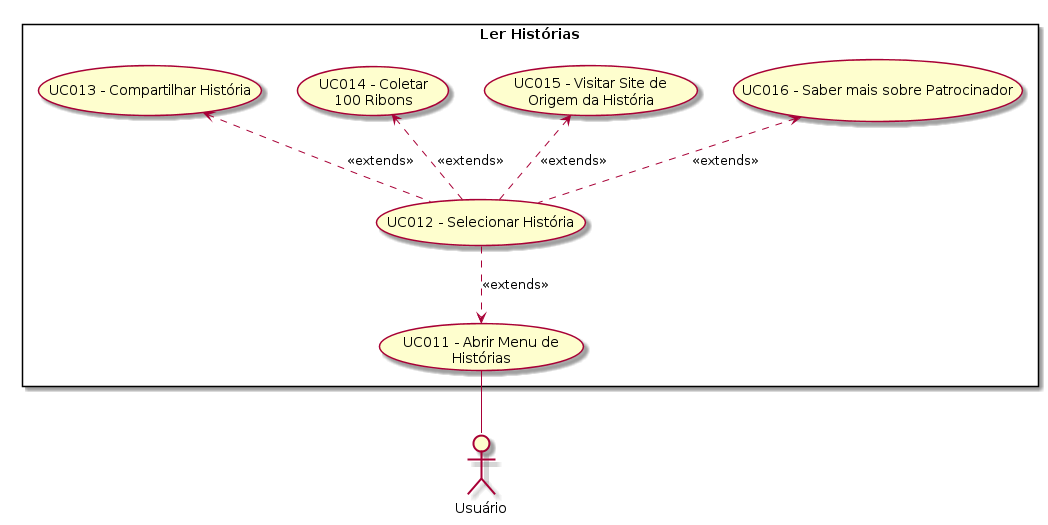
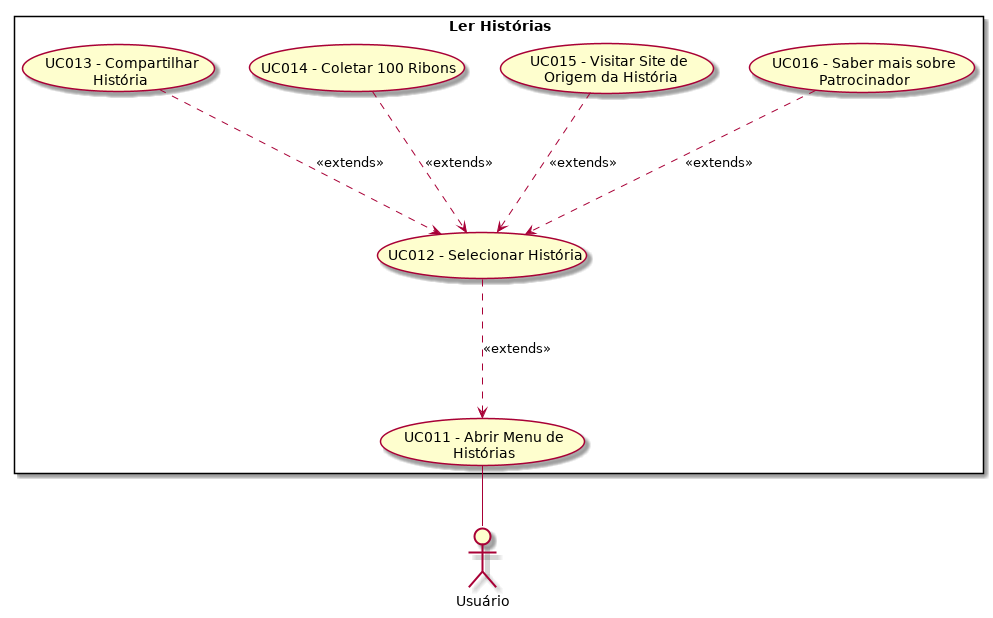
Atualizando diagrama UCD002

diff --git a/Modelagem de Requisitos/Casos_de_uso/UCD002_Ler_Historia/UCD002_Ler_Histórias.md b/Modelagem de Requisitos/Casos_de_uso/UCD002_Ler_Historia/UCD002_Ler_Histórias.md
@@ -1,6 +1,7 @@
 | Data       | Versão  | Descrição       | Autor            |
 | ---------- | ------- | --------------- | ---------------- |
-| 29/4/2019 | 1.0 | Adicionando diagrama | Henrique Martins |
+| 29/04/2019 | 1.0 | Adicionando diagrama | Henrique Martins |
+| 06/05/2019 | 1.0 | Arrumando diagrama | Henrique Martins |
 
 
 # UCD002 - Ler [História](https://github.com/requisitos-2019-1/Ribon/blob/master/Modelagem%20de%20Requisitos/Lexicos/Historia.md)
@@ -10,17 +11,17 @@
 Versão 1.0.
 
 # Descrição
-Através do [Aplicativo](https://github.com/requisitos-2019-1/Ribon/blob/master/Modelagem%20de%20Requisitos/Lexicos/Aplicativo.md) [Ribon](https://github.com/requisitos-2019-1/Ribon/blob/master/Modelagem%20de%20Requisitos/Lexicos/Ribon.md), o [Usuário](https://github.com/requisitos-2019-1/Ribon/blob/master/Modelagem%20de%20Requisitos/Lexicos/Usuário.md) é capaz de ler [História](https://github.com/requisitos-2019-1/Ribon/blob/master/Modelagem%20de%20Requisitos/Lexicos/Historia.md)s motivadoras
+Através do [aplicativo](https://github.com/requisitos-2019-1/Ribon/blob/master/Modelagem%20de%20Requisitos/Lexicos/Aplicativo.md) [Ribon](https://github.com/requisitos-2019-1/Ribon/blob/master/Modelagem%20de%20Requisitos/Lexicos/Ribon.md), o [usuário](https://github.com/requisitos-2019-1/Ribon/blob/master/Modelagem%20de%20Requisitos/Lexicos/Usuário.md) é capaz de ler [Histórias](https://github.com/requisitos-2019-1/Ribon/blob/master/Modelagem%20de%20Requisitos/Lexicos/Historia.md) motivadoras
 # Principal(is) Ator(es)
 [Usuário](https://github.com/requisitos-2019-1/Ribon/blob/master/Modelagem%20de%20Requisitos/Lexicos/Usuário.md)
 
 # Pre-condições (incluindo trigger)
-- O [Usuário](https://github.com/requisitos-2019-1/Ribon/blob/master/Modelagem%20de%20Requisitos/Lexicos/Usuário.md) deve ter conexão com a Internet.
-- [Usuário](https://github.com/requisitos-2019-1/Ribon/blob/master/Modelagem%20de%20Requisitos/Lexicos/Usuário.md) ter [Aplicativo](https://github.com/requisitos-2019-1/Ribon/blob/master/Modelagem%20de%20Requisitos/Lexicos/Aplicativo.md) instalado.
+- O [usuário](https://github.com/requisitos-2019-1/Ribon/blob/master/Modelagem%20de%20Requisitos/Lexicos/Usuário.md) deve ter conexão com a Internet.
+- [Usuário](https://github.com/requisitos-2019-1/Ribon/blob/master/Modelagem%20de%20Requisitos/Lexicos/Usuário.md) ter [aplicativo](https://github.com/requisitos-2019-1/Ribon/blob/master/Modelagem%20de%20Requisitos/Lexicos/Aplicativo.md) instalado.
 
 # Fluxo principal
-1. O caso se inicia quando o [Usuário](https://github.com/requisitos-2019-1/Ribon/blob/master/Modelagem%20de%20Requisitos/Lexicos/Usuário.md) inicia o [Aplicativo](https://github.com/requisitos-2019-1/Ribon/blob/master/Modelagem%20de%20Requisitos/Lexicos/Aplicativo.md) e está no Menu Principal (de [História](https://github.com/requisitos-2019-1/Ribon/blob/master/Modelagem%20de%20Requisitos/Lexicos/Historia.md)s).
-1. [Usuário](https://github.com/requisitos-2019-1/Ribon/blob/master/Modelagem%20de%20Requisitos/Lexicos/Usuário.md) escolhe uma das [História](https://github.com/requisitos-2019-1/Ribon/blob/master/Modelagem%20de%20Requisitos/Lexicos/Historia.md)s disponíveis para ler.
+1. O caso se inicia quando o [usuário](https://github.com/requisitos-2019-1/Ribon/blob/master/Modelagem%20de%20Requisitos/Lexicos/Usuário.md) inicia o [aplicativo](https://github.com/requisitos-2019-1/Ribon/blob/master/Modelagem%20de%20Requisitos/Lexicos/Aplicativo.md) e está no Menu Principal (de [histórias](https://github.com/requisitos-2019-1/Ribon/blob/master/Modelagem%20de%20Requisitos/Lexicos/Historia.md)).
+1. [Usuário](https://github.com/requisitos-2019-1/Ribon/blob/master/Modelagem%20de%20Requisitos/Lexicos/Usuário.md) escolhe uma das [histórias](https://github.com/requisitos-2019-1/Ribon/blob/master/Modelagem%20de%20Requisitos/Lexicos/Historia.md) disponíveis para ler.
 1. O caso de uso termina.
 
 # Fluxos alternativos
